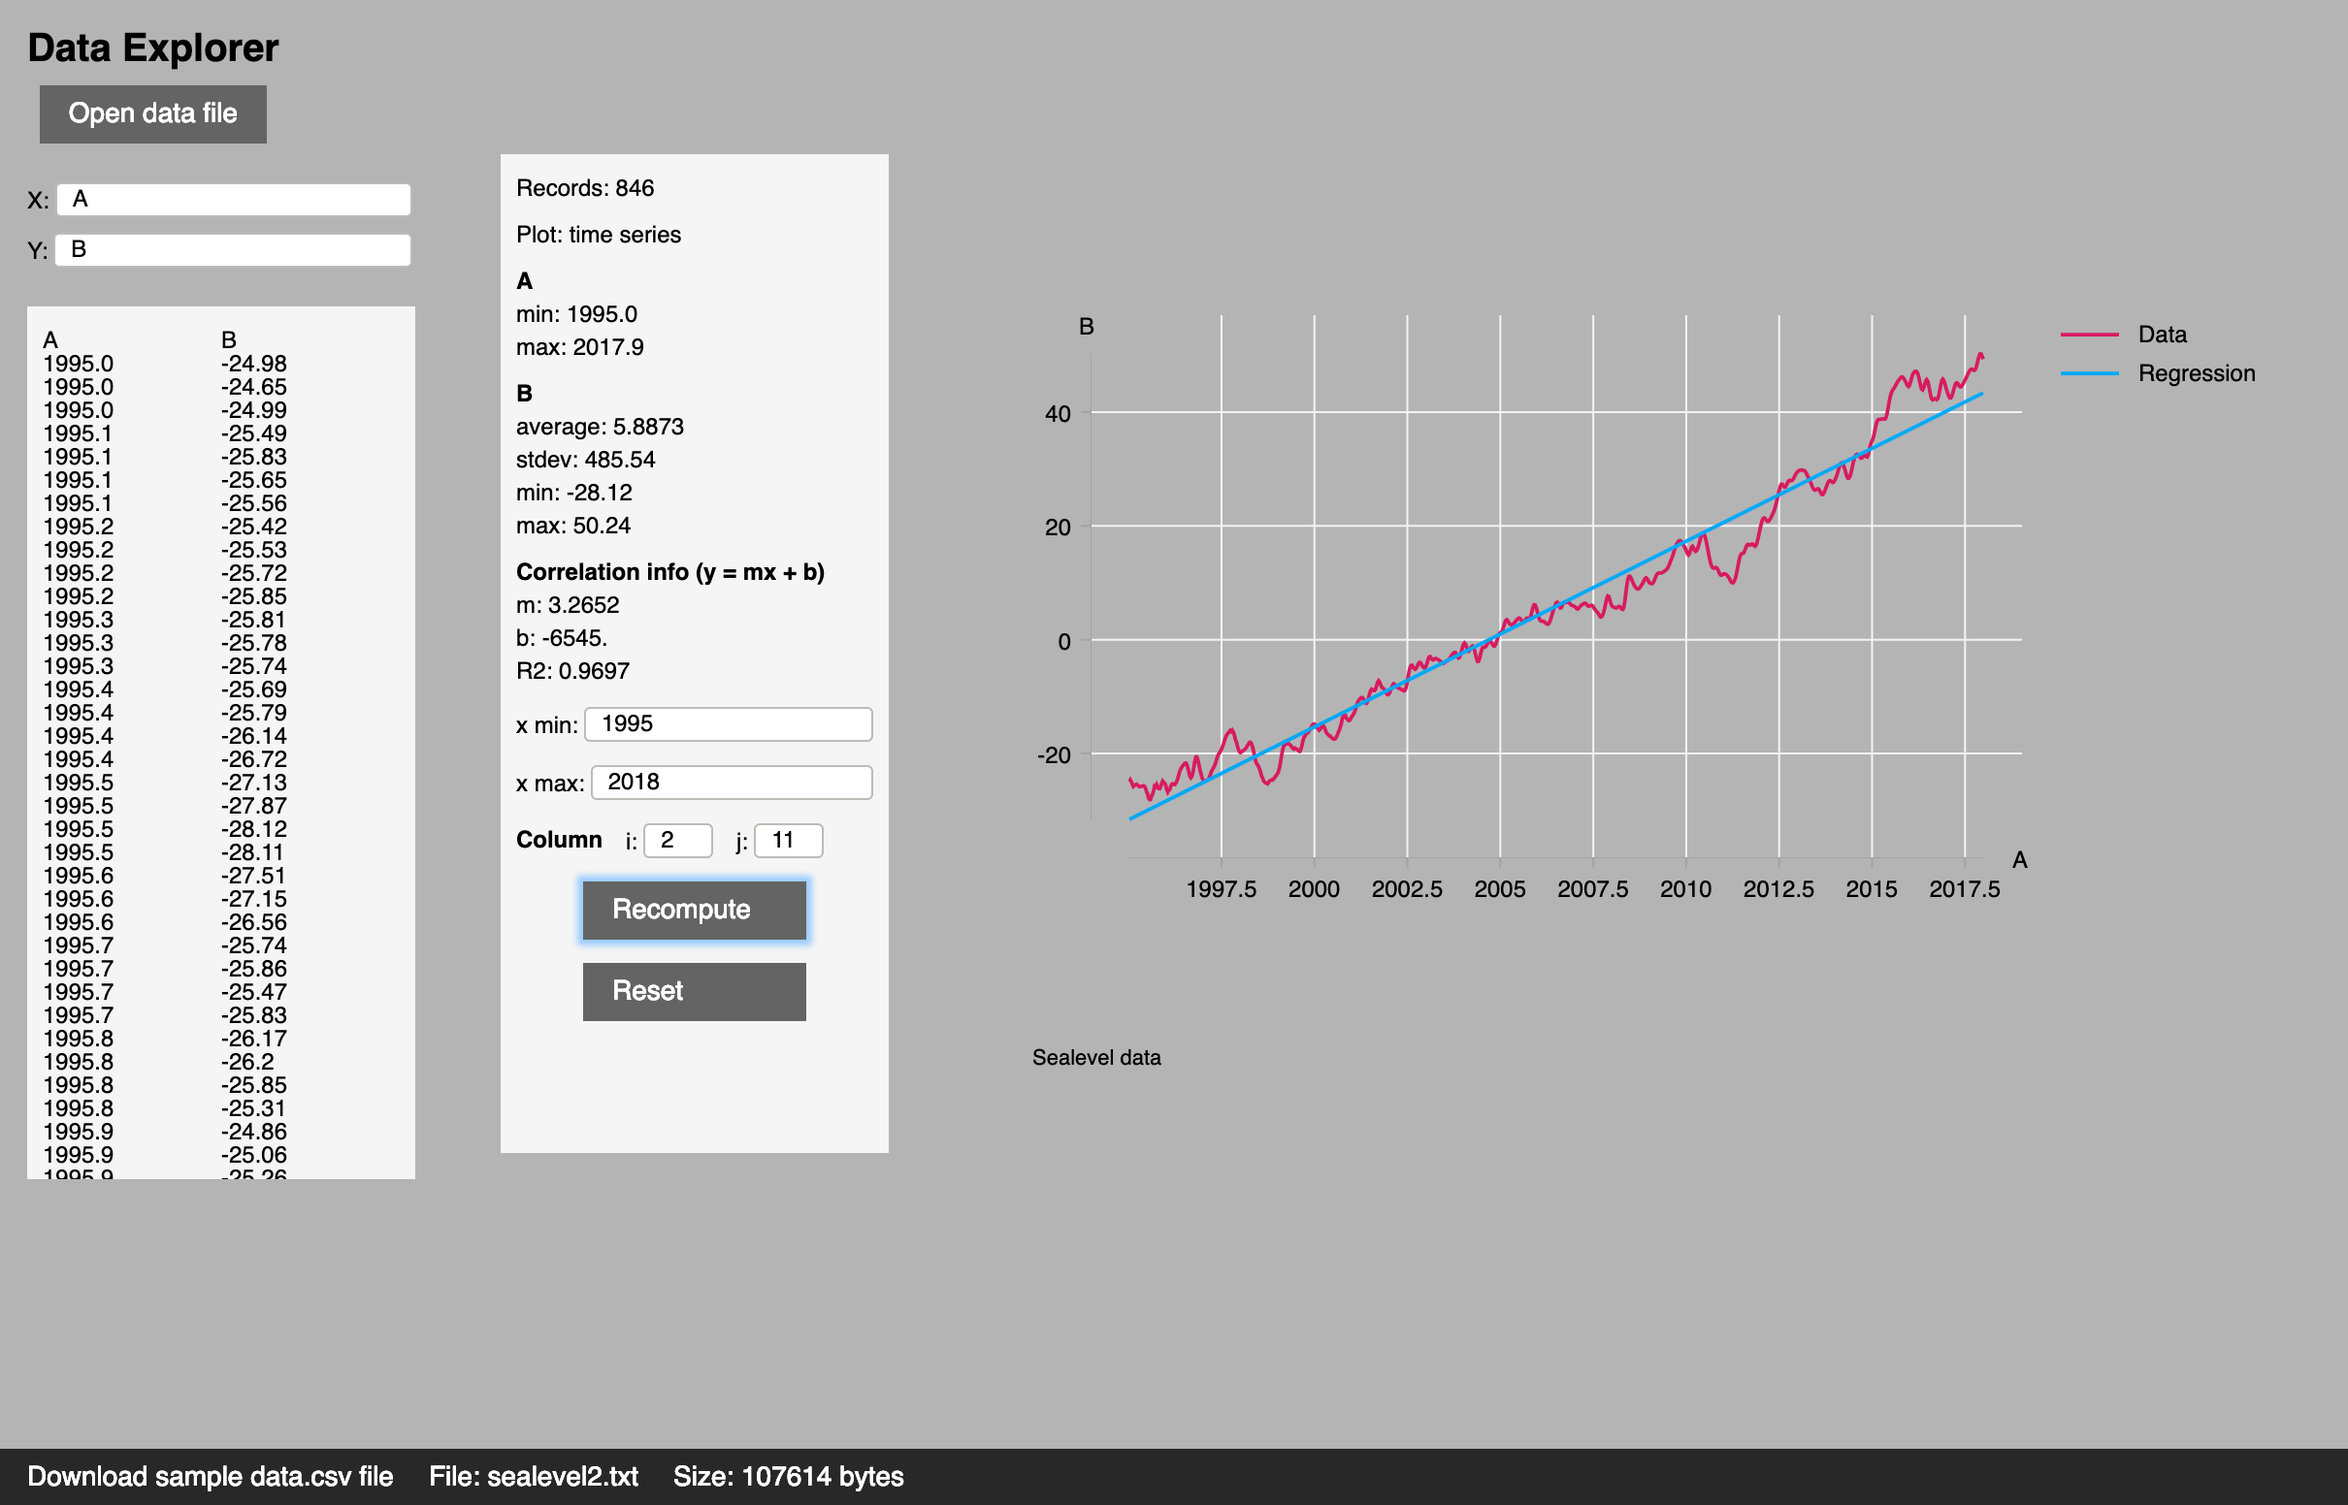
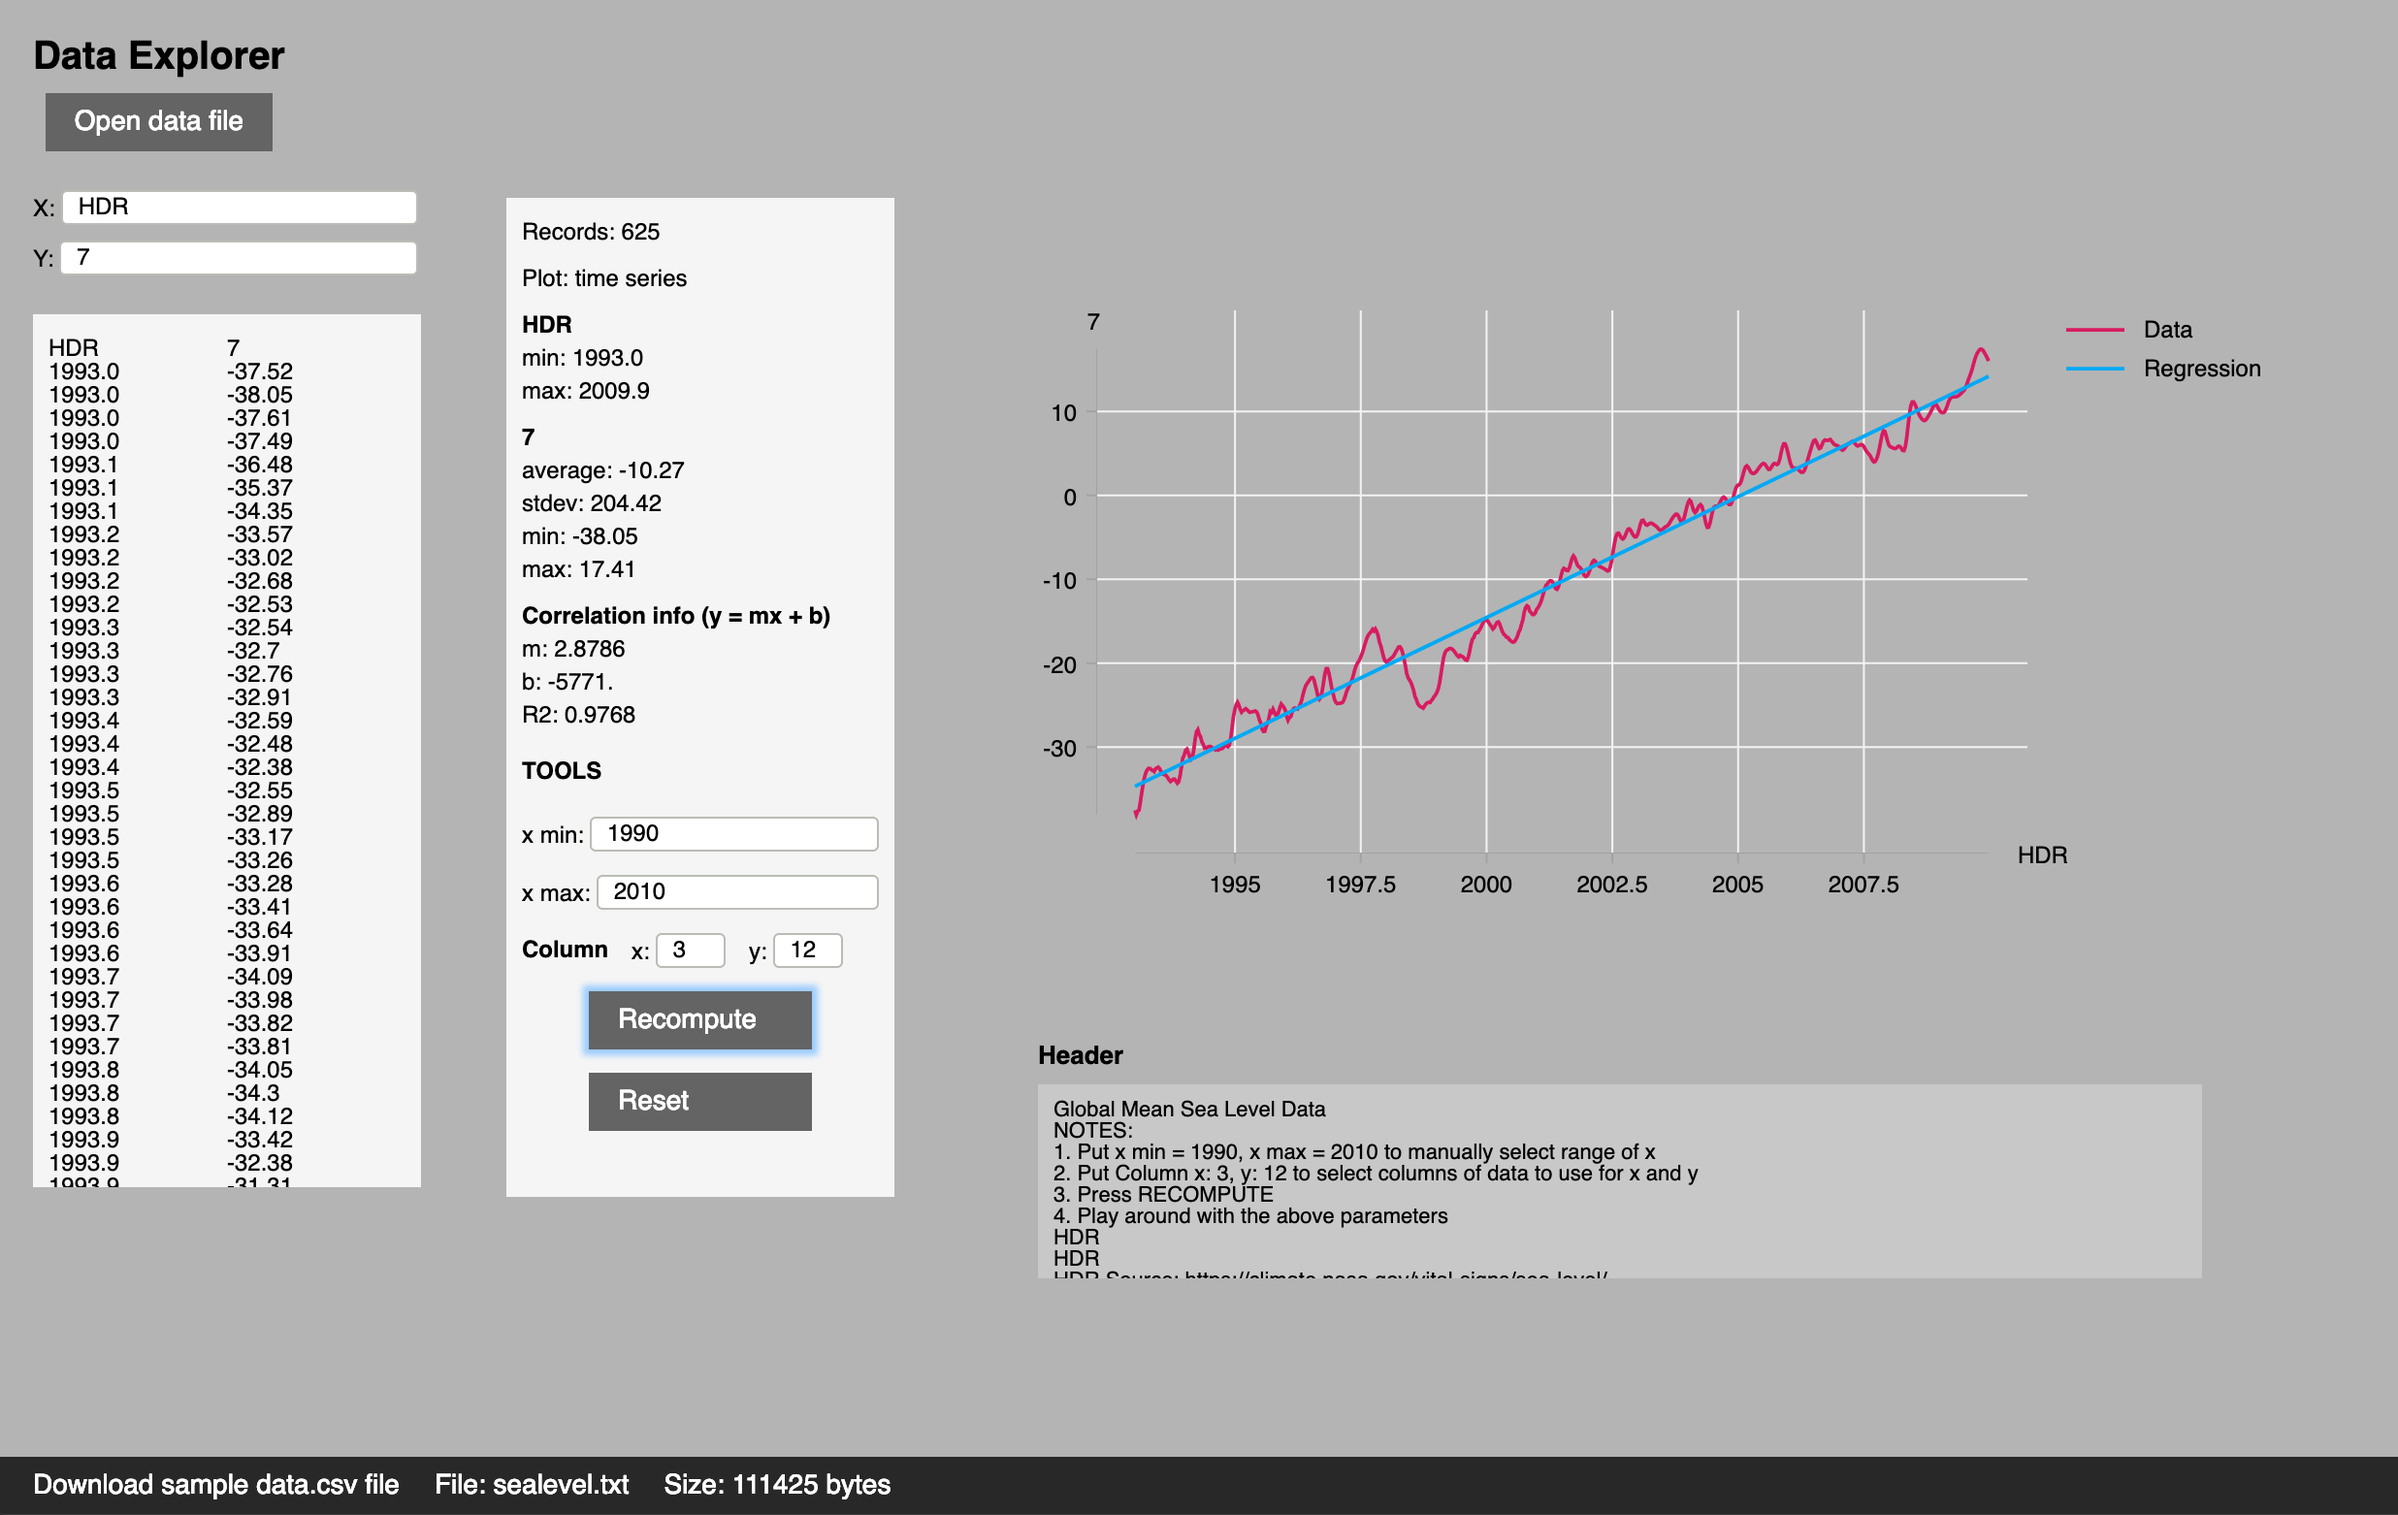
Update README and screenshot.

diff --git a/README.md b/README.md
@@ -2,12 +2,17 @@
 
 ![Image](./image/dataviewer.png)
 
-This package is for doing statistics and graphs for 2-column csv files.  
-The image above displays an analysis of time series data.
-It is computed by the app in the `examples` folder using this `elm-stat` library.  See
+![Image](./image/dataviewer-sealevel.png)
+
+This package is for doing statistics and graphs for n-column data files.
+The first image above displays an analysis of time series data in Csv file.
+The second example uses the new API in the `RawData` module, not yet published
+to package repo.  (Coming soon.)
+
+Both graphs is computed by the app in the `examples` folder using this `elm-stat` library.  See
 the [Demo App](https://jxxcarlson.github.io/app/dataviewer.html) to try the app out on line.
 
-## The API  
+## The API
 
 There are two modules, `Stat`, for computing statistics of 2-D data, and `CsvData`, for extracting Csv data from a text string and for extracting 2-D data from Csv. The `Stat` module has functions for computing statistical measures such as the mean and standard deviation of the x or y values, coefficients for the linear regression line, etc.
 
@@ -47,7 +52,7 @@ For this example, we extract the value by hand:
     : { headers : List String, records : List (List String) }
 ```
 
-With the csv data in hand, we convert it to a list of points.  In the  
+With the csv data in hand, we convert it to a list of points.  In the
 case at hand, we extract columns 0 and 1.  The `getPointList` function
 allows one to work with multi-column data.
 
@@ -81,7 +86,7 @@ done in the demo app using `terezka/line-charts`.
   , rightRegressionPoint = { x = 1883, y = -0.1200 }
   , xMax = 1883, xMean = 1881.5, xMin = 1880, xStdev = 1.29099
   , yMean = -0.105, yStdev = 0.036968 }
-```  
+```
 
 ## The Demo App
 
